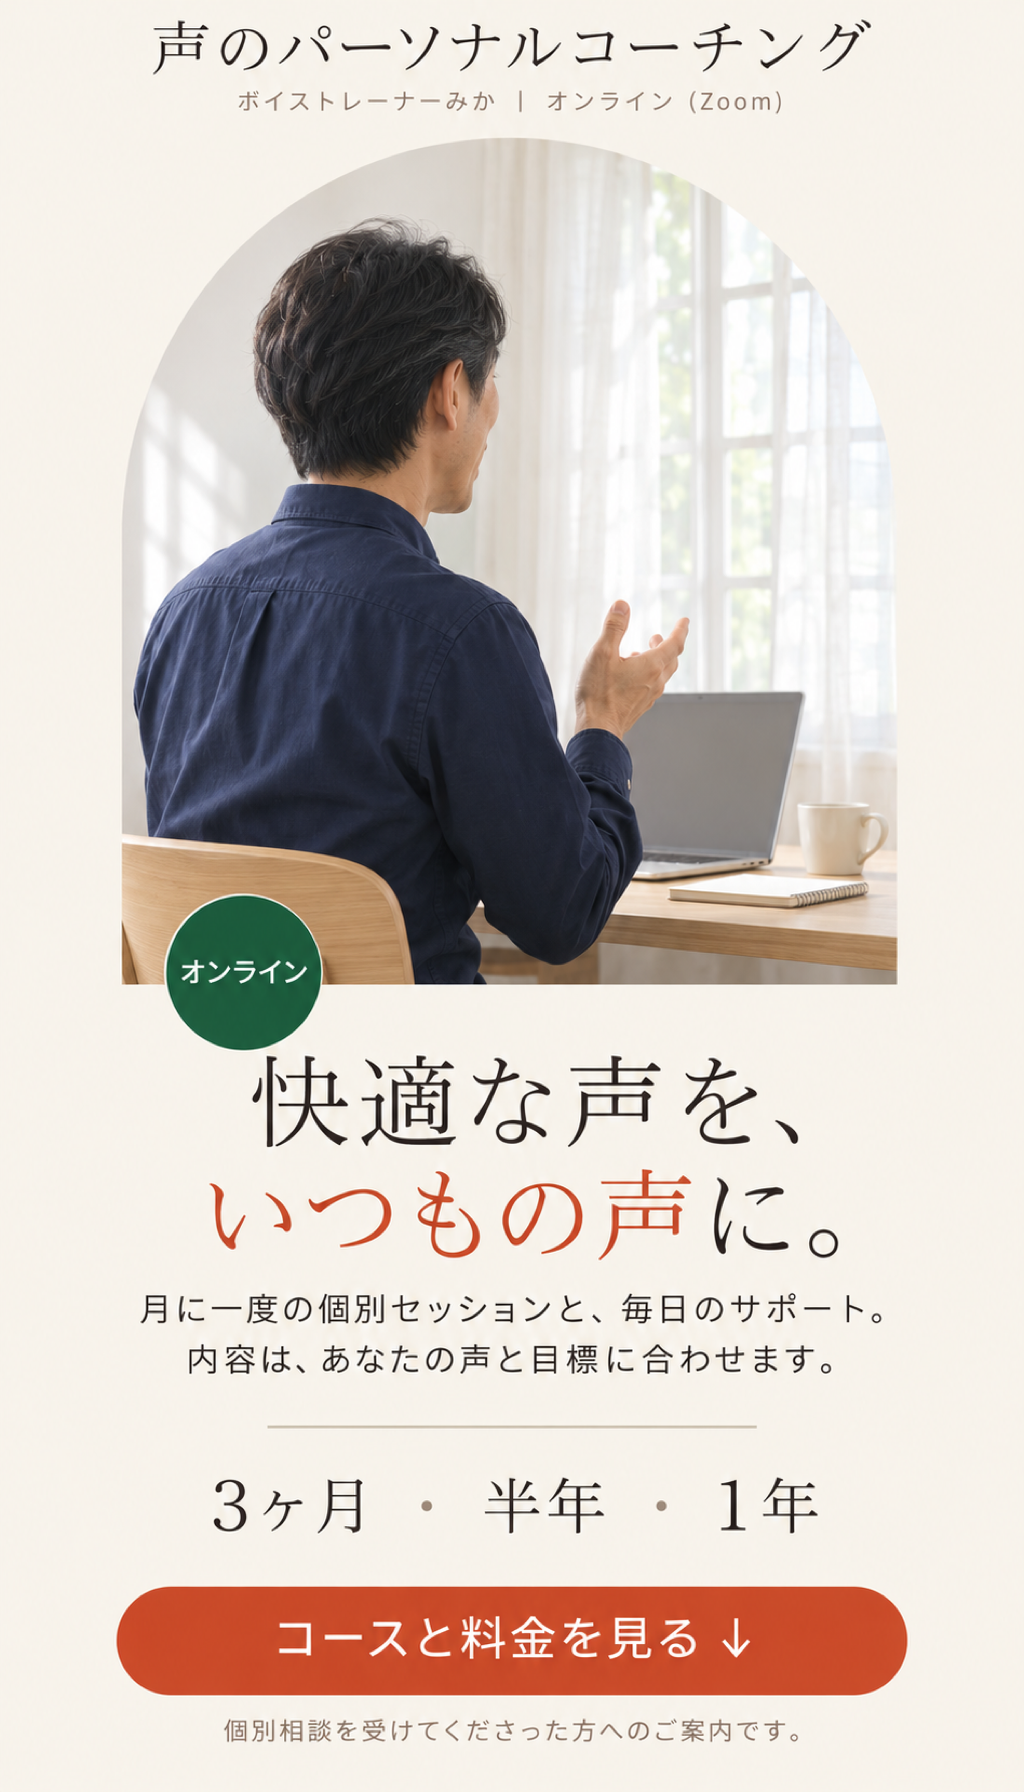
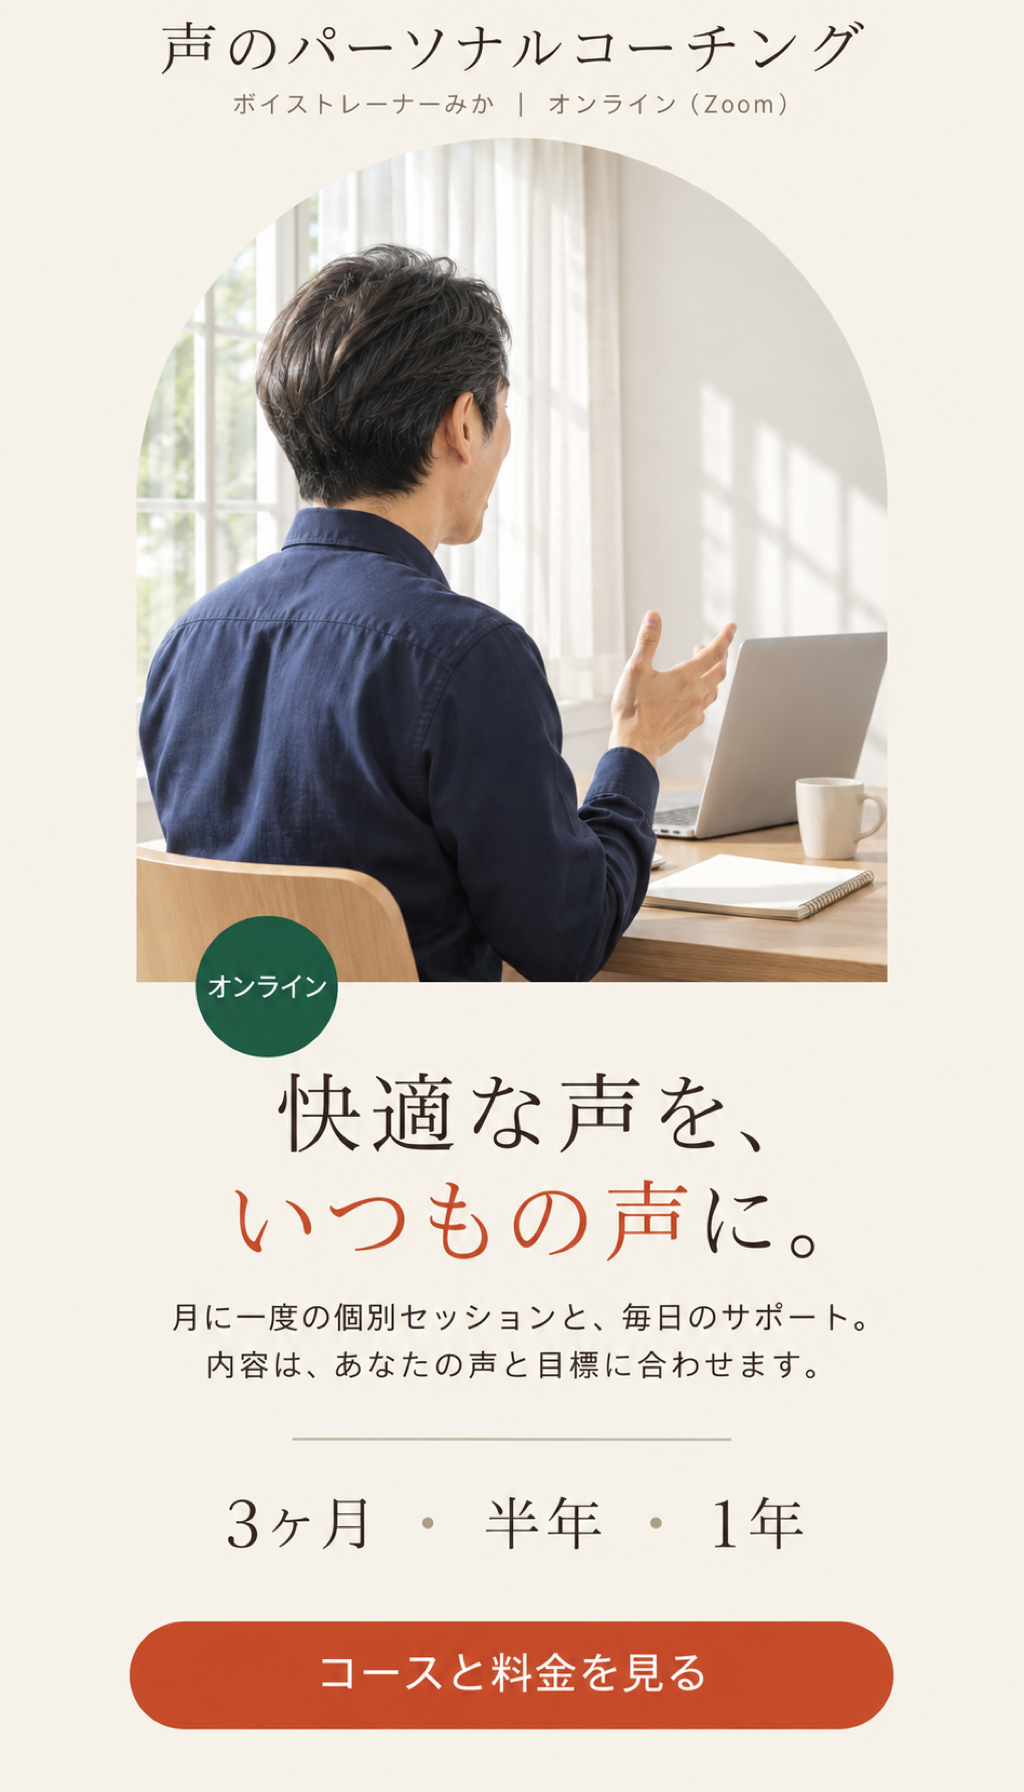
course-plans: 1枚目とコースを選ぶの直し版（みかさんの文言直し6か所を画像にも反映）

diff --git a/course-plans/index.html b/course-plans/index.html
@@ -20,8 +20,8 @@
   <!-- 01 ファーストビュー -->
   <section class="shot">
     <img src="images/01-fv.png" width="1024" height="1792"
-         alt="声のパーソナルコーチング（ボイストレーナーみか・オンライン）。快適な声を、いつもの声に。月に一度の個別セッションと、毎日のサポート。内容は、あなたの声と目標に合わせます。コースは3ヶ月・半年・1年。個別相談を受けてくださった方へのご案内です。">
-    <a class="hotspot" href="#pricing" style="top: 87.5%; height: 6.5%;" aria-label="コースと料金を見る"></a>
+         alt="声のパーソナルコーチング（ボイストレーナーみか・オンライン）。快適な声を、いつもの声に。月に一度の個別セッションと、毎日のサポート。内容は、あなたの声と目標に合わせます。コースは3ヶ月・半年・1年。コースと料金を見る。">
+    <a class="hotspot" href="#pricing" style="top: 89%; height: 6%;" aria-label="コースと料金を見る"></a>
   </section>
 
   <!-- 02 コースの中身 -->
@@ -70,10 +70,10 @@
 
   <!-- 07 コースを選ぶ・申込み -->
   <section class="shot">
-    <img src="images/07-cta.png" width="1024" height="1792"
-         alt="どこまで行くかで、選べます。半年コーチング（基礎3ヶ月＋応用3ヶ月・経営者さん・発信者さんが受講中）、3ヶ月コース（まず、声の土台を整える）、1年コース（半年コーチング＋声の顧問）。それぞれの料金はこの上でご案内しています。申し込みへ進む。お支払いは、一括と月々から選べます。">
+    <img src="images/07-cta.png" width="948" height="1660"
+         alt="めざす声に合わせて、選べます。半年コーチング（基礎3ヶ月＋応用3ヶ月・経営者さん・発信者さんが受講中）、3ヶ月コース（まず、声の土台を整える）、1年コース（半年コーチング＋声の顧問）。申し込みへ進む。">
     <!-- 申込みボタン: 行き先は未接続（2026-11-06 みかさん指示）。決まったら href を差し替える -->
-    <a class="hotspot" href="#pricing" style="top: 79.5%; height: 7%;" aria-label="申し込みへ進む（準備中）"></a>
+    <a class="hotspot" href="#pricing" style="top: 84%; height: 6.5%;" aria-label="申し込みへ進む"></a>
   </section>
 
   <!-- 料金（HTML） -->
